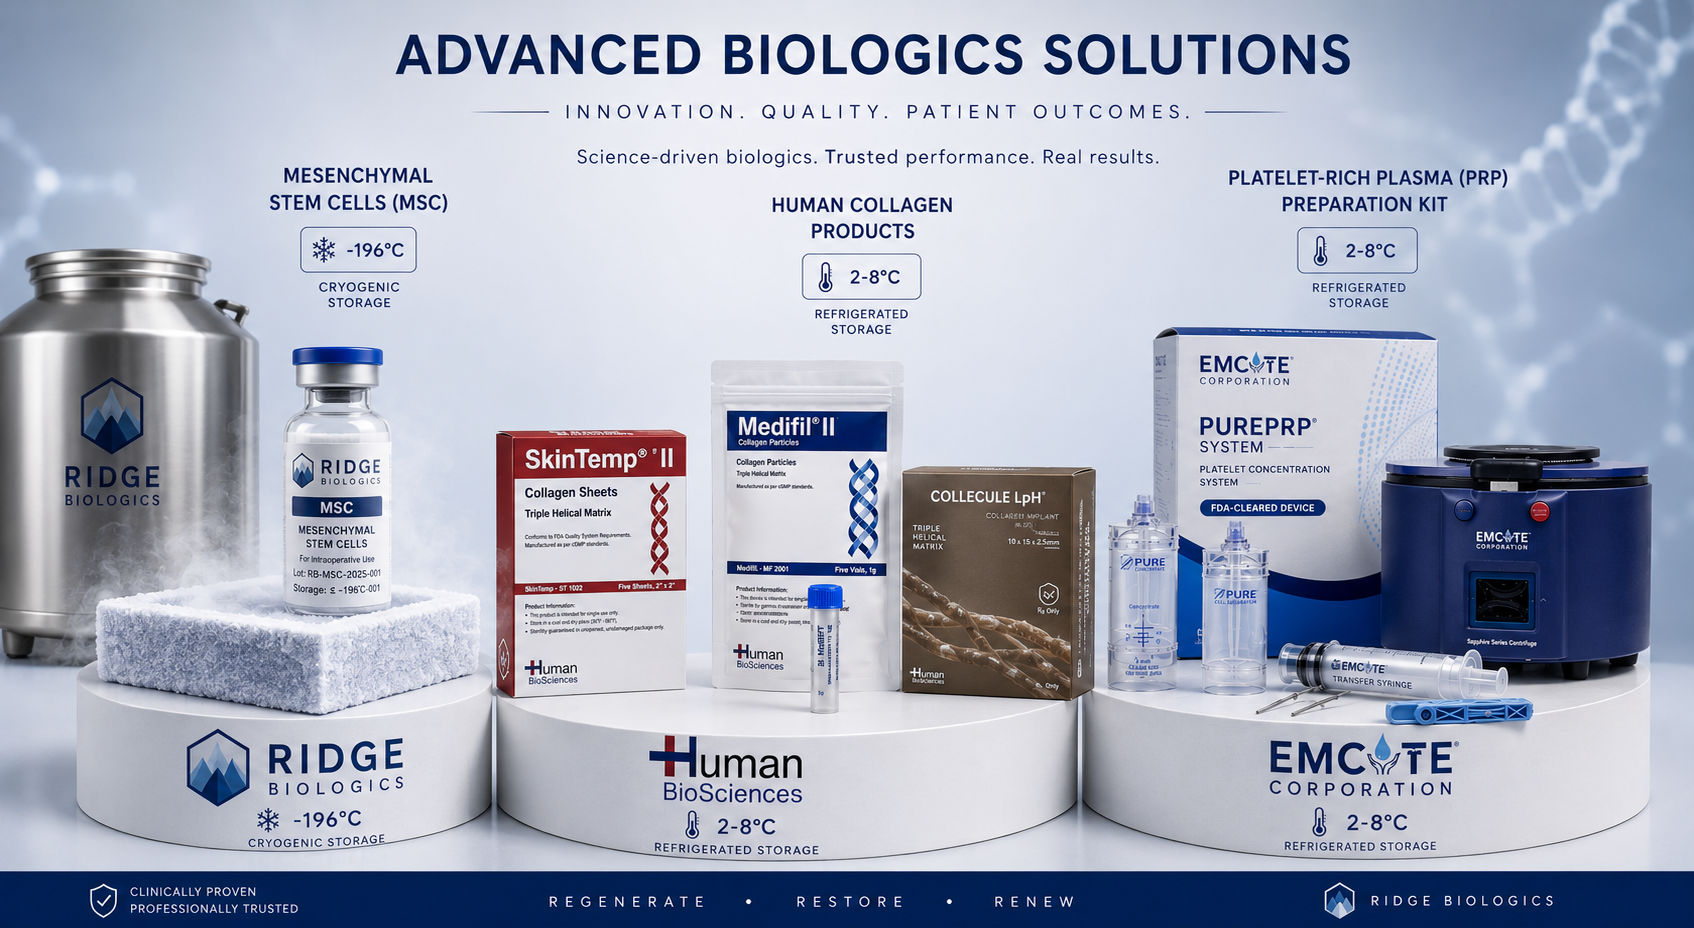
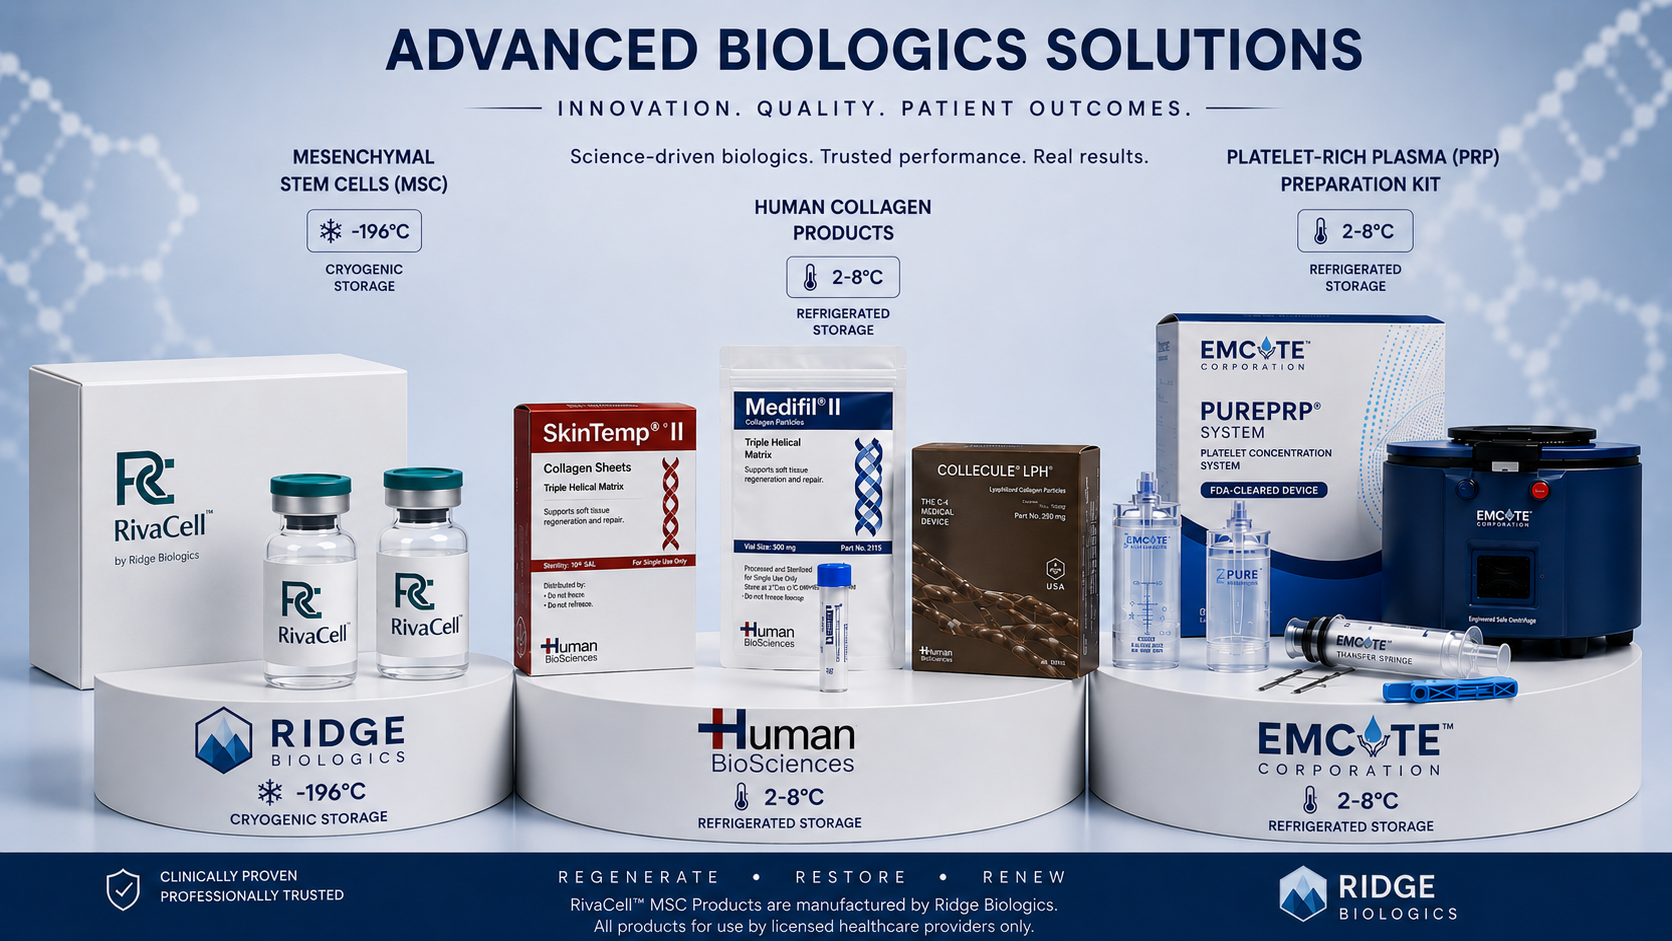
Replace product lineup hero with new professional product photography
New 1672×941 image shows all three product categories with real packaging:
RivaCell MSC (cryogenic), Human BioSciences Collagen products (SkinTemp II,
Medifil II, ColleCule LpH), and EmCyte PurePRP kit with centrifuge equipment.

diff --git a/components/sections/SolutionsGrid.tsx b/components/sections/SolutionsGrid.tsx
@@ -31,9 +31,9 @@ export default function SolutionsGrid() {
           <div className="relative w-full rounded-2xl overflow-hidden" style={{ maxWidth: "90%", margin: "0 auto" }}>
             <Image
               src="/images/product-lineup-hero.png"
-              alt="Ridge Biologics advanced biologics solutions — MSC, collagen, and PRP product lineup"
-              width={1400}
-              height={600}
+              alt="Ridge Biologics product lineup — RivaCell MSC, Human Collagen, and EmCyte PRP products"
+              width={1672}
+              height={941}
               className="w-full h-auto"
               style={{ display: "block" }}
               sizes="(max-width: 768px) 100vw, 90vw"
